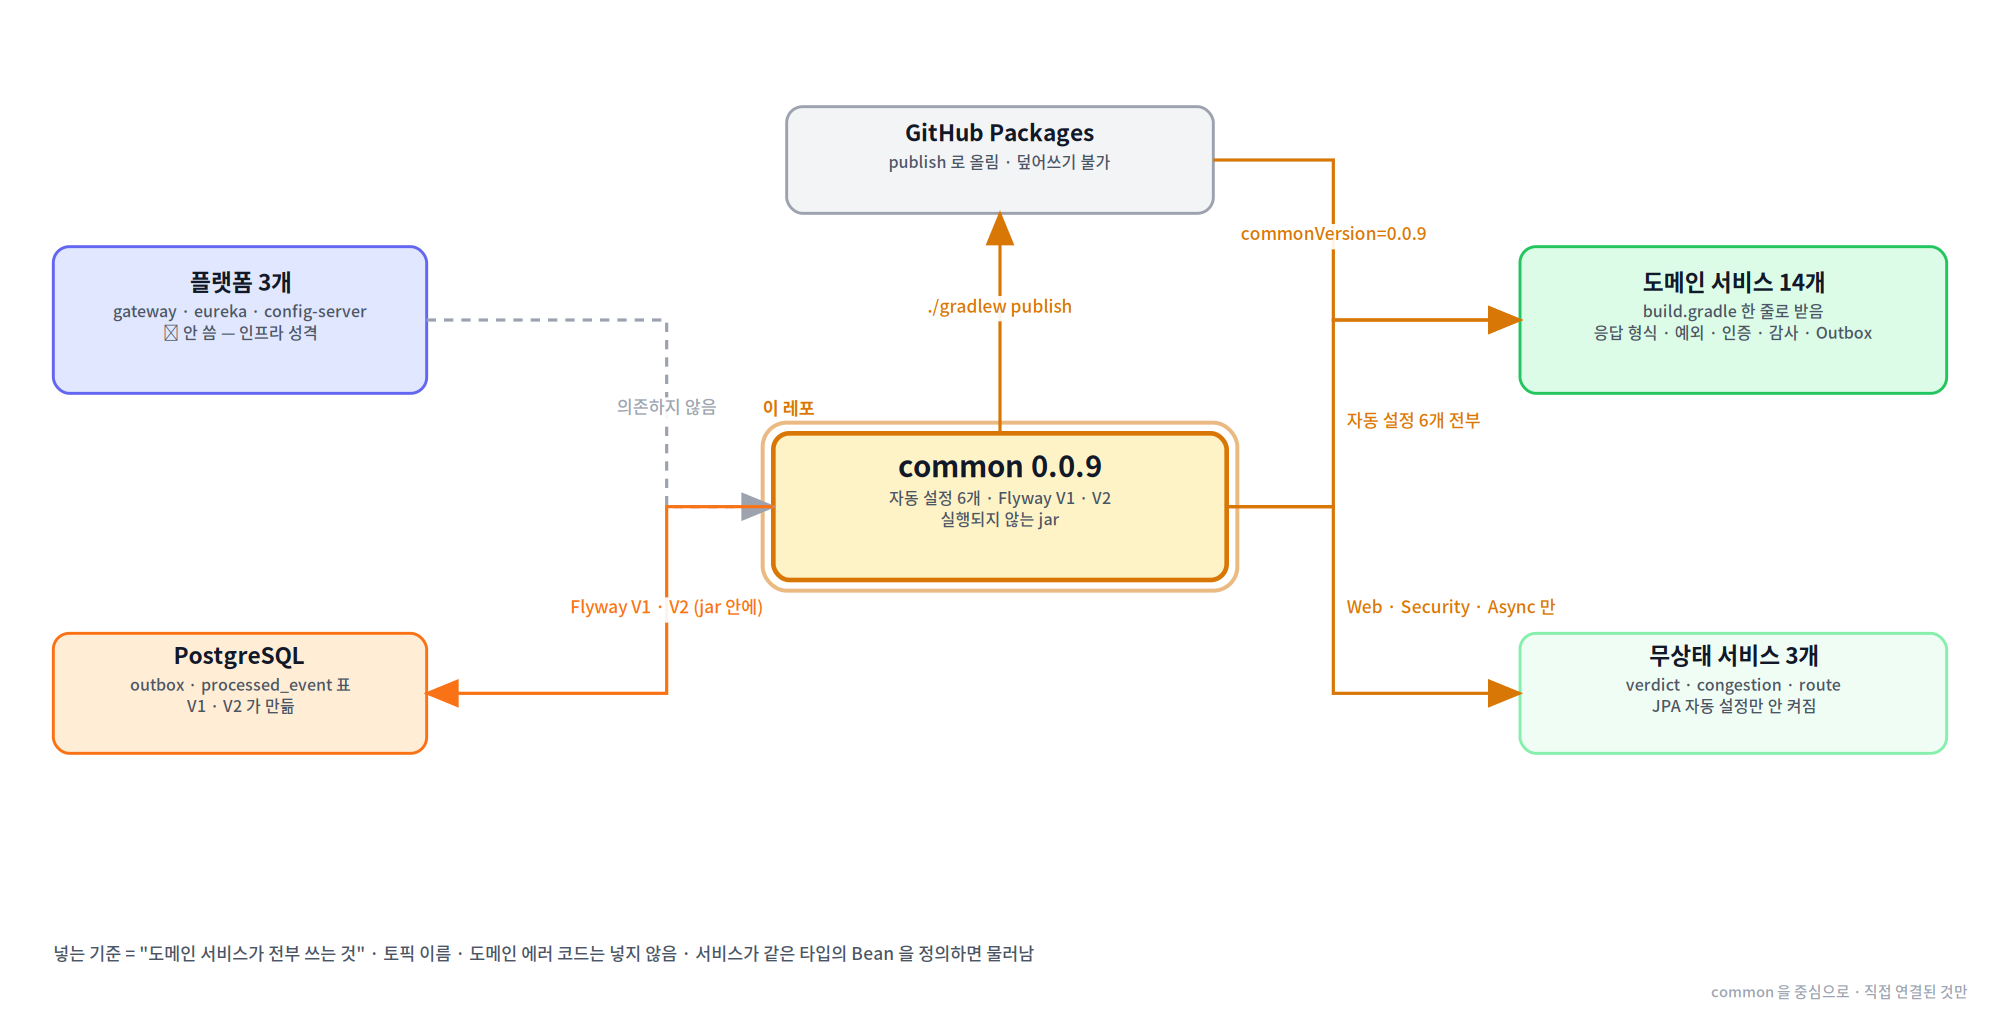
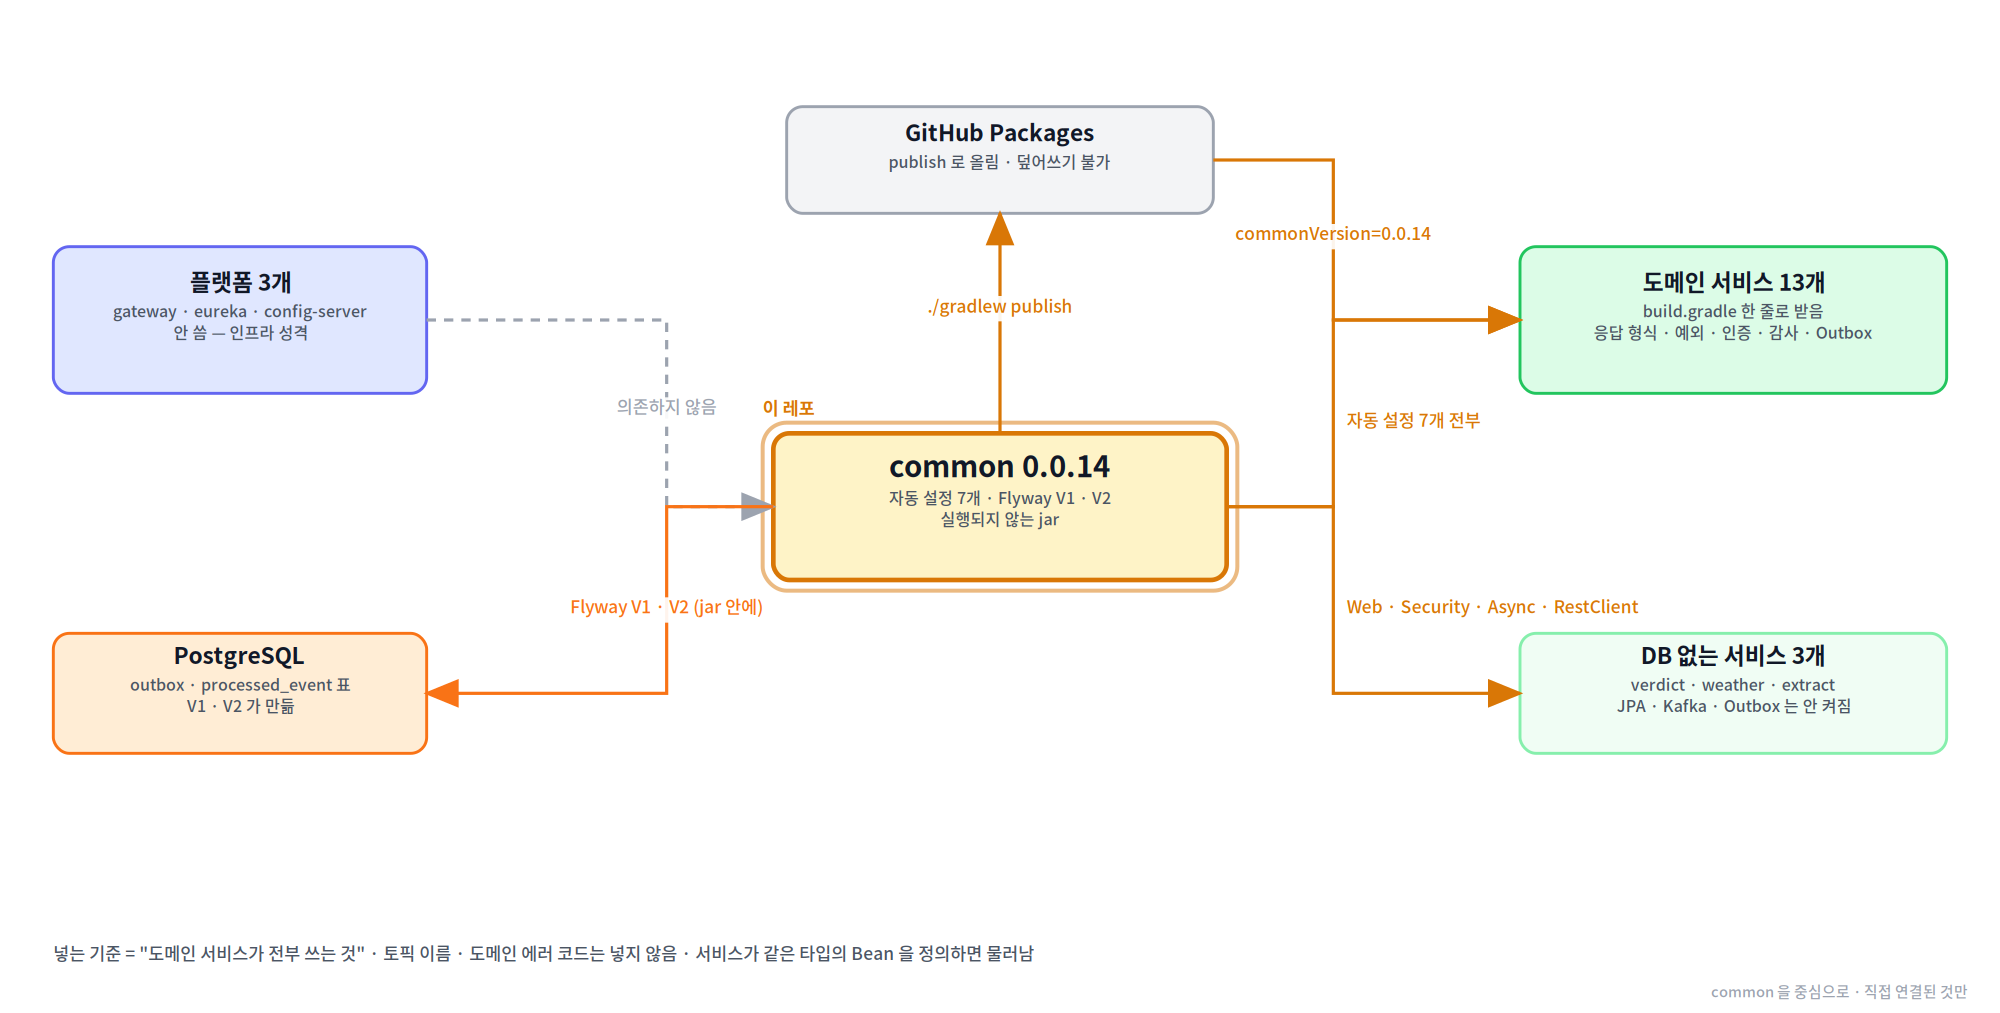
docs: list weather and extract as the services without a database in the readme and diagram

diff --git a/README.md b/README.md
@@ -1,6 +1,6 @@
 # common
 
-**함께하개의 공통 모듈입니다.** 도메인 서비스 14개가 전부 쓰는 것만 담습니다.
+**함께하개의 공통 모듈입니다.** 도메인 서비스 13개가 전부 쓰는 것만 담습니다.
 
 ---
 
@@ -31,7 +31,7 @@
                              │
                              │  com.pawtrail:common:0.0.13  (jar)
                              ▼
-도메인 서비스 14개  ──▶  공통 모듈   자동 설정 7개가 조건에 맞으면 켜짐
+도메인 서비스 13개  ──▶  공통 모듈   자동 설정 7개가 조건에 맞으면 켜짐
         │                    │
         │                    ├──▶  응답 형식 · 예외 처리
         │                    ├──▶  인증 헤더 → SecurityContext
@@ -55,7 +55,7 @@
 
 | | 있으면 | 없으면 |
 |---|---|---|
-| 응답 형식 | 한 곳에서 정의 | **서비스 14개가 각자 만듦 → 형태가 갈림** |
+| 응답 형식 | 한 곳에서 정의 | **서비스 13개가 각자 만듦 → 형태가 갈림** |
 | 예외 처리 | 자동으로 붙음 | 서비스마다 `@RestControllerAdvice` 를 복사 |
 | 감사 컬럼 | `BaseEntity` 상속 | 테이블마다 6컬럼을 직접 |
 | Outbox | `record()` 한 줄 | **5단계를 손으로** — 하나만 빠뜨려도 이벤트가 안 나감 |
@@ -72,7 +72,7 @@
 | Flyway 스크립트 | 2개 (`V1`·`V2`) | [3-5](#3-5-messageoutbox--이벤트를-안전하게-보내기) |
 | 공통 에러 코드 | 6개 | [3-2](#3-2-exception--에러-코드-규약) |
 | 현재 버전 | **0.0.13** | [5장](#5-버전을-올리고-배포하기) |
-| 소비하는 서비스 | 도메인 14개 | 플랫폼 3개는 **안 씀** |
+| 소비하는 서비스 | 도메인 13개 | 플랫폼 3개는 **안 씀** |
 
 ---
 
@@ -364,7 +364,7 @@ public class PlaceApplication {
 
 **DB 를 쓰지 않는 서비스는 둘 다 지웁니다.**
 
-`verdict` · `congestion` · `route` 가 여기 해당합니다.
+`verdict` · `weather` · `extract` 가 여기 해당합니다.
 `import` 도 함께 지워야 컴파일이 통과합니다. `service-template` README 1-5 참고.
 
 <br><br>
@@ -449,7 +449,7 @@ spring-web                        ──▶  CommonRestClientAutoConfiguration
 
 
 DB 를 쓰는 서비스        7개 전부 켜짐        auth · user · pet · place · policy ...
-무상태 서비스            Web · Security · RestClient · Async    verdict · congestion · route
+무상태 서비스            Web · Security · RestClient · Async    verdict · weather · extract
 게이트웨이               ⛔ 애초에 안 씀 (플랫폼 3개)
 ```
 
@@ -632,7 +632,7 @@ provider 에서 @Qualifier 누락  ──▶  맨 빌더 주입  ──▶  base
 
 ### 2-5. 무상태 서비스에서 안 켜지는 것
 
-`verdict` · `congestion` · `route` 가 JPA 스타터를 지우면 **셋이 함께 꺼집니다.**
+`verdict` · `weather` · `extract` 가 JPA 스타터를 지우면 **셋이 함께 꺼집니다.**
 
 | 못 쓰게 되는 것 | 대신 |
 |---|---|
@@ -656,8 +656,8 @@ internal · external 빌더              다른 서비스와 바깥 API 호출
 
 > **`CommonRestClientAutoConfiguration` 은 무상태 서비스에서도 켜집니다.**
 > 조건이 `RestClient` 이고 그 클래스는 `spring-web` 에 있어 웹 서비스면 항상 있습니다.
-> **오히려 무상태 서비스가 더 많이 씁니다.** verdict 는 policy 를,
-> congestion 과 route 는 바깥 API 를 부릅니다.
+> **오히려 무상태 서비스가 더 많이 씁니다.** verdict 는 pet · policy 를,
+> weather 는 기상청을, extract 는 ingest · policy 와 LLM 을 부릅니다.
 
 <br><br>
 
@@ -2049,7 +2049,7 @@ Settings → Editor → File Encodings
 |---|---|
 | `AutoConfiguration.imports` 로만 등록 | 소비 서비스가 `scanBasePackages` 에 넣기 |
 | `@ConditionalOnMissingBean` 이 신뢰됨 | 일반 `@Configuration` 은 처리 순서가 안 보장돼 조건이 뒤집힘 |
-| 앱 클래스에 적을 것이 줄어듦 | **14개 레포가 정확히 적어야 하는 구조** |
+| 앱 클래스에 적을 것이 줄어듦 | **13개 레포가 정확히 적어야 하는 구조** |
 
 **auth 가 자기 `SecurityFilterChain` 을 정의하는 자리가 설계에 이미 있었고,**
 그것이 성립하려면 조건이 신뢰돼야 했습니다.
@@ -2149,7 +2149,7 @@ OutboxCommitListener    @Async + @TransactionalEventListener    트랜잭션 없
 
 ### 7-4. 무엇을 여기 넣고 무엇을 안 넣나
 
-**공통 모듈에 넣을지는 매번 판단해야 하는 물음입니다.** 넣으면 17개 서비스가
+**공통 모듈에 넣을지는 매번 판단해야 하는 물음입니다.** 넣으면 13개 서비스가
 함께 지고 가고, 안 넣으면 같은 코드가 여러 저장소에 생깁니다.
 
 **기준 3개를 전부 통과해야 넣습니다.**
@@ -2167,10 +2167,10 @@ OutboxCommitListener    @Async + @TransactionalEventListener    트랜잭션 없
 | 대상 | 결과 | 근거 |
 |---|---|---|
 | `BaseEntity` · `ErrorCode` · 응답 래퍼 · 보안 체인 | **넣음** | 기준 3개 전부 통과 |
-| `/api/v1/admin/**` → `hasRole("ADMIN")` 한 줄 | **넣음** | 한 줄로 17개가 자동 보호됨. 각자 붙이게 하면 빠뜨린 서비스만 뚫림 |
+| `/api/v1/admin/**` → `hasRole("ADMIN")` 한 줄 | **넣음** | 한 줄로 13개가 자동 보호됨. 각자 붙이게 하면 빠뜨린 서비스만 뚫림 |
 | `RestClientAuthInterceptor` · 빌더 3개 | **넣음** | 짝이 여기 있음. 아래 참고 |
 | 토픽 이름 상수 | **안 넣음** | ① — 작업 도중 추가·변경·삭제됨 |
-| S3 presigned 발급 | **안 넣음** | ②③ — `user` · `pet` · `review` 3개만 쓰고 AWS SDK 가 나머지 14개에도 딸려감 |
+| S3 presigned 발급 | **안 넣음** | ②③ — `user` · `pet` · `review` 3개만 쓰고 AWS SDK 가 나머지 10개에도 딸려감 |
 | 이벤트 payload DTO | **안 넣음** | 발행자가 필드 하나를 고칠 때 받는 쪽이 전부 재배포됨. 이벤트로 떼어 놓은 것을 다시 붙이는 셈입니다 |
 | `AfterCommitExecutor` | **안 넣음** | ② — `auth` · `user` · `pet` · `review` 4개만 씁니다. 나머지는 DB 가 없어 트랜잭션 자체가 없거나 Redis · S3 를 안 건드립니다 |
 
@@ -2208,7 +2208,7 @@ private 메서드였는데 비밀번호 재설정도 같은 것이 필요해져 
 꺼냈습니다.**
 
 **예측이 아니라 실물이 쌓인 뒤에 판단합니다.** 미리 올려 두었다가 안 쓰게 되면
-17개가 지고 가는 빈이 하나 늘어납니다.
+13개가 지고 가는 빈이 하나 늘어납니다.
 
 <br><br>
 
@@ -2319,7 +2319,7 @@ PK          Hibernate @UuidGenerator(style = VERSION_7)
 ```
 UuidVersion7Strategy 는 hibernate-core 에 있음
         │
-        └── 무상태 서비스(verdict · congestion)에는 Hibernate 가 없음
+        └── 무상태 서비스(verdict · weather · extract)에는 Hibernate 가 없음
               그런데 verdict 도 이벤트를 소비하며 EventEnvelope 를 다룸
                     │
                     └── 재사용하면 message/ 가 JPA 에 묶여
